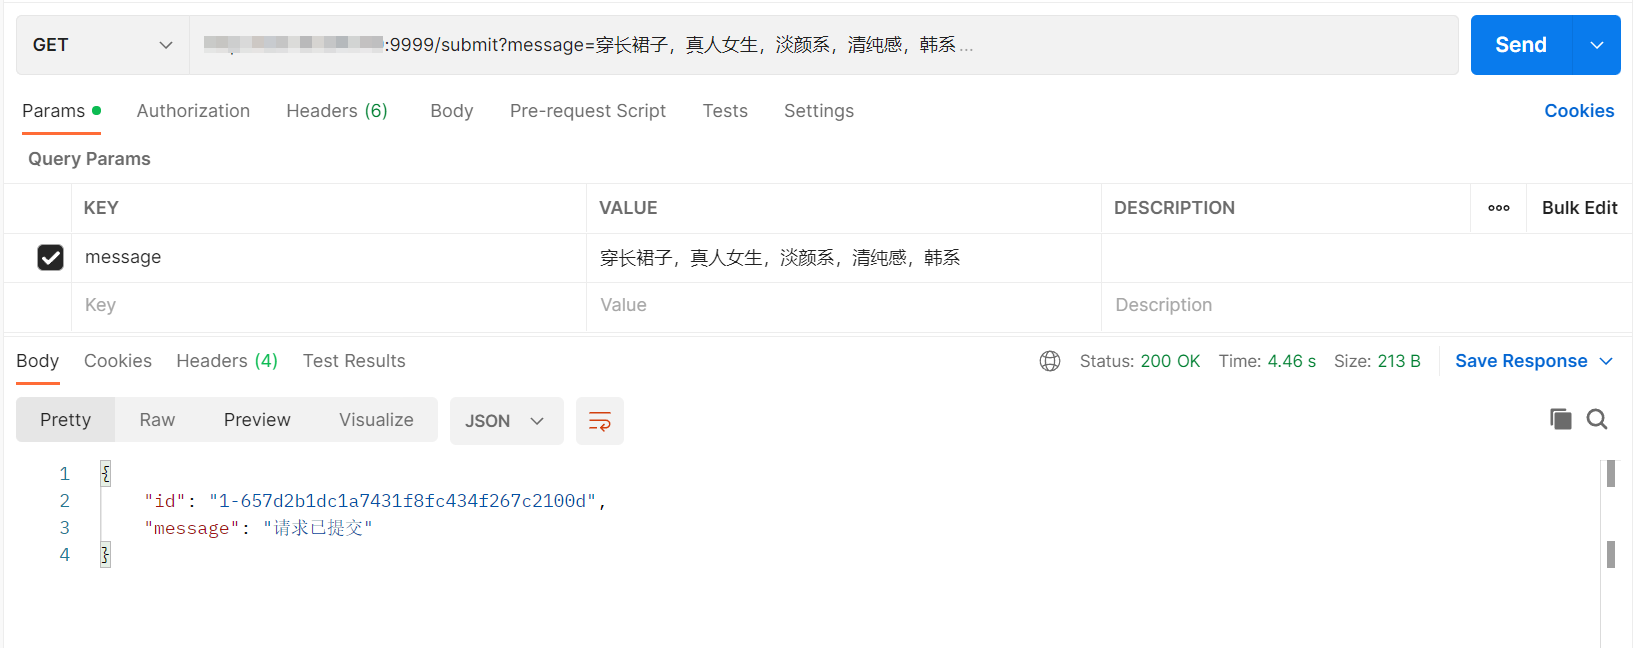
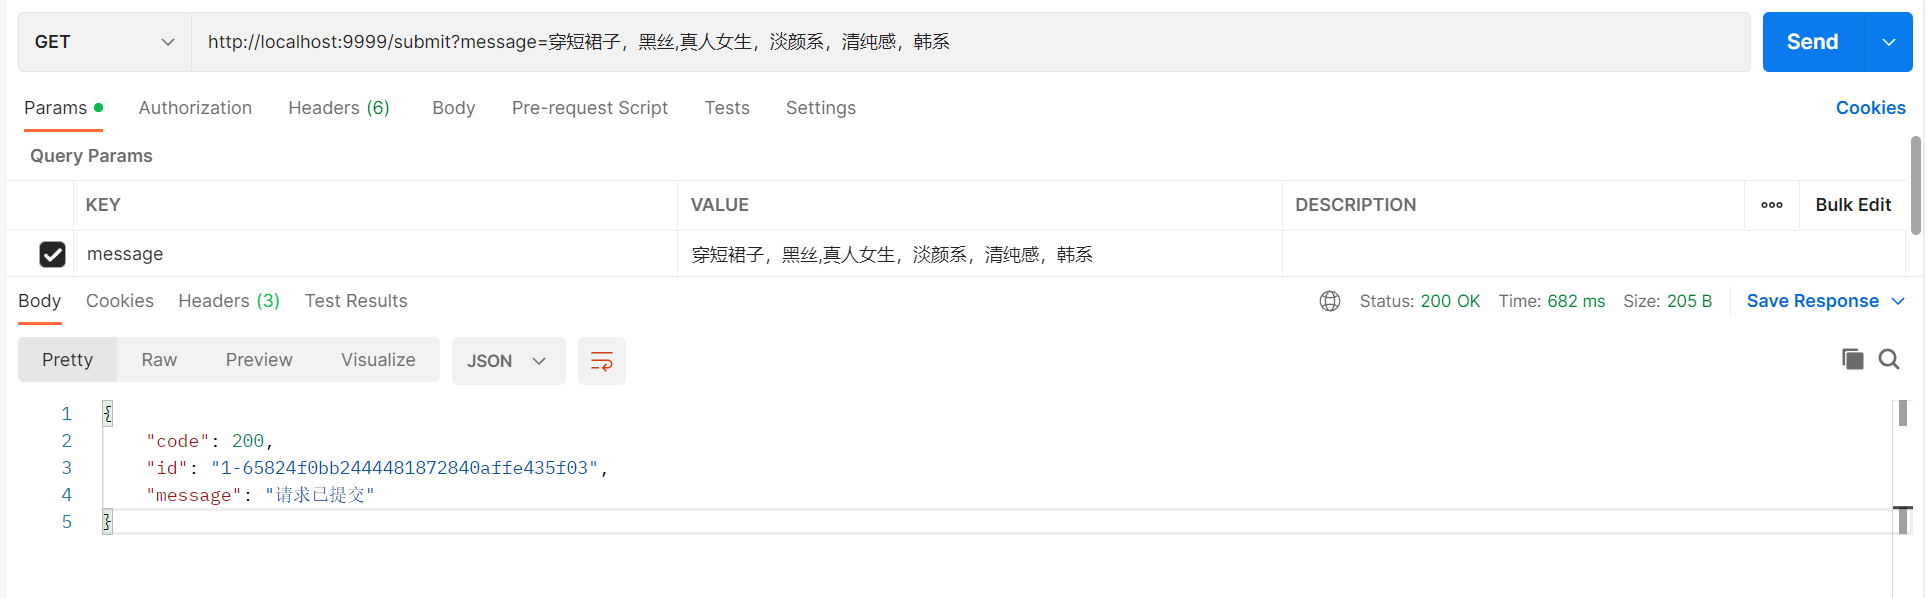
新增凌晨清除缓存id,对于单张图片的处理,和敏感词提示。

diff --git a/internal/handler/handler.go b/internal/handler/handler.go
@@ -13,12 +13,14 @@ func SubmitHandler(c *gin.Context) {
 		c.JSON(http.StatusOK, gin.H{
 			"message": err.Error(),
 			"id":      "",
+			"code":    "500",
 		})
 		return
 	}
 	c.JSON(http.StatusOK, gin.H{
 		"message": "请求已提交",
 		"id":      id,
+		"code":    200,
 	})
 }
 
@@ -28,6 +30,7 @@ func ResultHandler(c *gin.Context) {
 		c.JSON(http.StatusOK, gin.H{
 			"message": "id不可以为空,操作失败",
 			"data":    make([]string, 0),
+			"code":    500,
 		})
 		return
 	}
@@ -36,11 +39,13 @@ func ResultHandler(c *gin.Context) {
 		c.JSON(http.StatusOK, gin.H{
 			"message": err.Error(),
 			"data":    make([]string, 0),
+			"code":    500,
 		})
 		return
 	}
 	c.JSON(http.StatusOK, gin.H{
 		"message": "操作成功",
 		"data":    result,
+		"code":    200,
 	})
 }

diff --git a/internal/service/service.go b/internal/service/service.go
@@ -139,6 +139,19 @@ func Result(id string) ([]string, error) {
 		srcArrays = append(srcArrays, srcValue)
 	}
 
-	delete(config.Cache, id)
+	if len(srcArrays) == 0 {
+		nodes, err = htmlquery.QueryAll(doc, "//*[@id='gir_async']/a/img/@src")
+		for _, node := range nodes {
+			// 获取节点的值（src 属性的值）
+			srcValue := htmlquery.InnerText(node)
+			srcValue = strings.ReplaceAll(srcValue, "w=270&h=270&c=6&r=0&o=5&dpr=1.5", "")
+			srcArrays = append(srcArrays, srcValue)
+		}
+	}
+
+	if len(srcArrays) == 0 {
+		return nil, errors.New("包含敏感词汇,已阻止生成")
+	}
+	//delete(config.Cache, id)
 	return srcArrays, nil
 }

diff --git a/internal/task/task.go b/internal/task/task.go
@@ -1,0 +1,21 @@
+package task
+
+import (
+	"image-Designer/internal/config"
+	"log"
+	"time"
+)
+
+func ClearIdCache() {
+	go func() {
+		for {
+			now := time.Now()
+			next := time.Date(now.Year(), now.Month(), now.Day()+1, 1, 0, 0, 0, now.Location())
+			duration := next.Sub(now)
+			log.Println("定时任务已经启动...")
+			time.Sleep(duration)
+			config.Cache = make(map[string]string)
+			log.Println("定时任务已经执行...")
+		}
+	}()
+}

diff --git a/internal/define/define.go b/internal/define/define.go
@@ -3,6 +3,7 @@ package define
 import (
 	"encoding/json"
 	"errors"
+	"image-Designer/internal/task"
 	"io/ioutil"
 	"os"
 )
@@ -20,6 +21,7 @@ func init() {
 		marshal, _ := json.Marshal(conf)
 		ioutil.WriteFile(dir+string(os.PathSeparator)+ConfigName, marshal, 0666)
 	}
+	task.ClearIdCache()
 }
 
 type Config struct {
